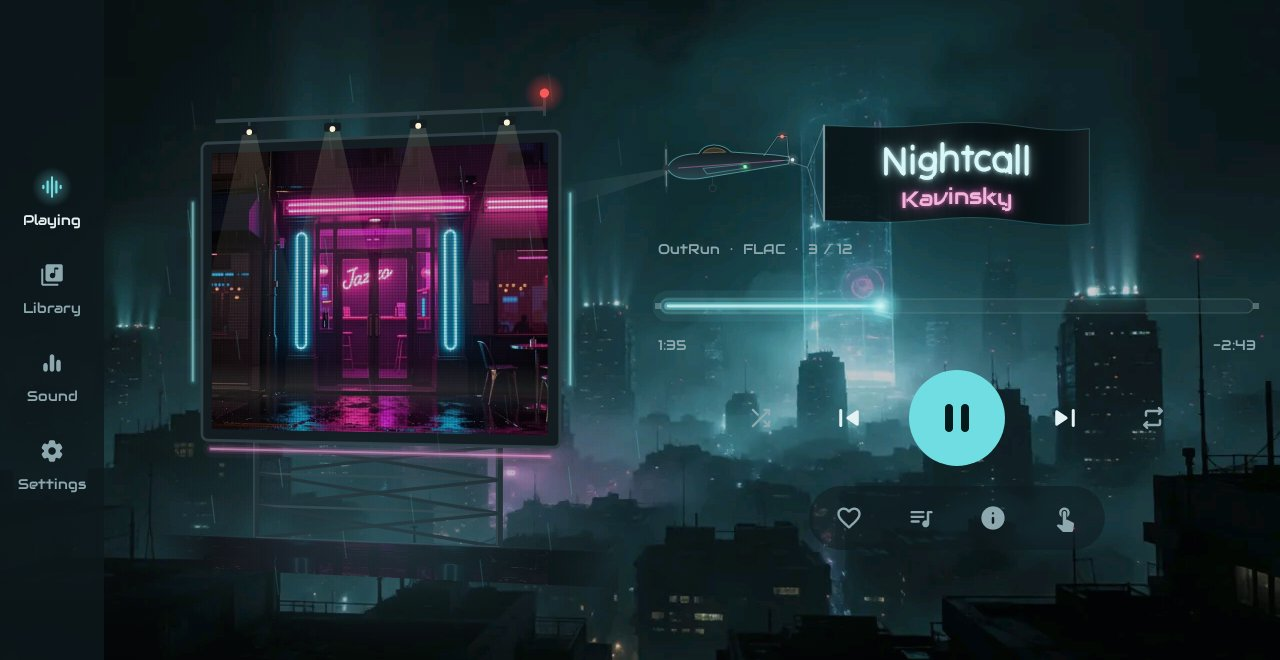
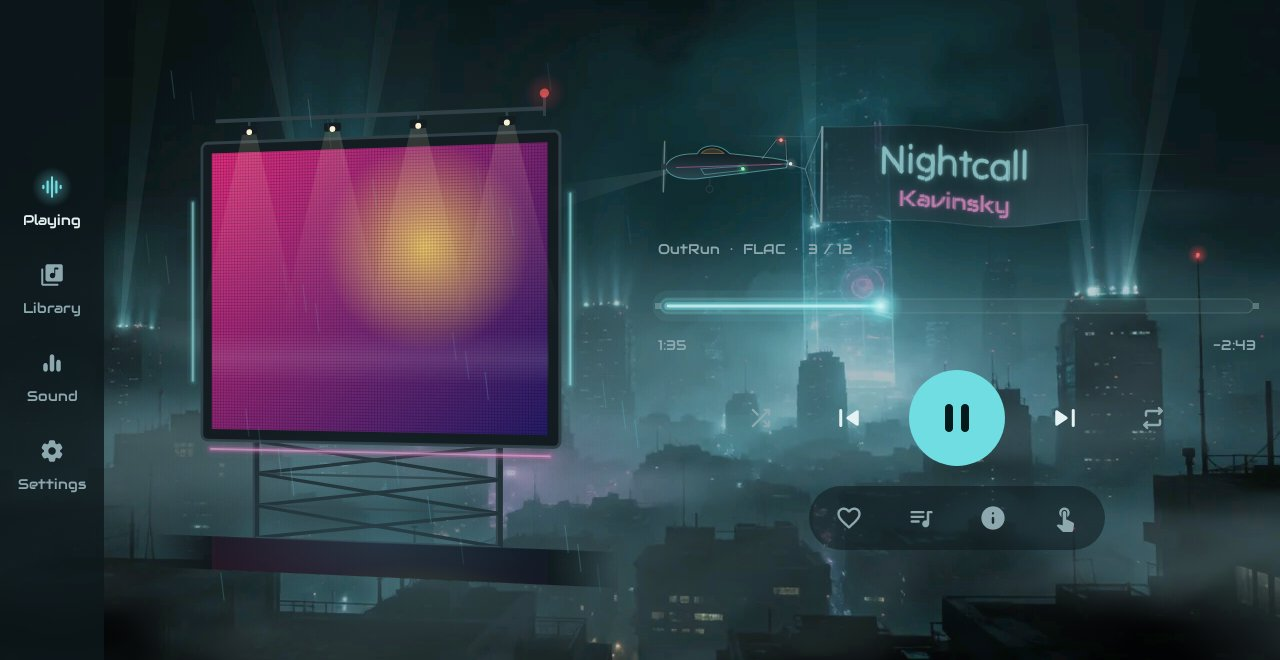
Neon City: real drifting fog, column light kept inside the tower
- Fog rebuilt: two textures of self-warped fractal noise (wisps, not
  blobs), made once off the main thread; three layers drift one way at
  different depths and sizes, each thickening and thinning slowly, so
  it never shows a loop. Screenshot test captures it 20 s apart.
- The holographic column's light is a soft lens clipped to the painted
  tower's measured shape; the flat shimmer that showed as a box is gone.

diff --git a/core/designsystem/src/main/kotlin/com/boulbeba/cruise/core/designsystem/skin/SkinBackground.kt b/core/designsystem/src/main/kotlin/com/boulbeba/cruise/core/designsystem/skin/SkinBackground.kt
@@ -22,6 +22,7 @@ import androidx.compose.ui.Modifier
 import androidx.compose.ui.draw.drawWithCache
 import androidx.compose.ui.geometry.CornerRadius
 import androidx.compose.ui.geometry.Offset
+import androidx.compose.ui.geometry.RoundRect
 import androidx.compose.ui.geometry.Size
 import androidx.compose.ui.graphics.Brush
 import androidx.compose.ui.graphics.Color
@@ -31,7 +32,7 @@ import androidx.compose.ui.graphics.Path
 import androidx.compose.ui.graphics.ShaderBrush
 import androidx.compose.ui.graphics.TileMode
 import androidx.compose.ui.graphics.asImageBitmap
-import androidx.compose.ui.graphics.drawscope.clipRect
+import androidx.compose.ui.graphics.drawscope.clipPath
 import androidx.compose.ui.graphics.drawscope.DrawScope
 import androidx.compose.ui.graphics.drawscope.Stroke
 import androidx.compose.ui.graphics.drawscope.rotate
@@ -85,6 +86,7 @@ fun SkinBackground(modifier: Modifier = Modifier, coverAccent: Color? = null, co
     val deep = if (skin.dynamicAccent && coverDeep != null) coverDeep else colors.accent2
     val style = skin.background
     val texture = rememberSkinTexture(skin.id)
+    if (style == BackgroundStyle.NeonCity) LaunchedEffect(Unit) { withContext(Dispatchers.Default) { NeonFog.prepare() } }
     Spacer(
         modifier.drawWithCache {
             // With its painted backdrop (CR-22) Neon City only adds the moving lights; the drawn city is the fallback.
@@ -317,19 +319,21 @@ private fun DrawScope.neonNight(t: Float, image: ImageBitmap) {
         drawCircle(Brush.radialGradient(listOf(beam.copy(alpha = 0.22f), Color.Transparent), center = p, radius = r), r, p)
     }
 
-    // The holographic column: a band of light gliding up it every few seconds, and a slow shimmer.
-    val colTop = at(0.627f, 0.14f)
-    val colBottom = at(0.700f, 0.575f)
-    val holo = Color(0xFFBDF4F6)
-    clipRect(colTop.x, colTop.y, colBottom.x, colBottom.y) {
-        val h = colBottom.y - colTop.y
-        drawRect(holo.copy(alpha = 0.035f + 0.03f * sin(t * 0.8f)), colTop, Size(colBottom.x - colTop.x, h))
-        val y = colBottom.y - ((t * 0.16f) % 1.2f) * h
-        val band = h * 0.07f
-        drawRect(
-            Brush.verticalGradient(listOf(Color.Transparent, holo.copy(alpha = 0.22f), Color.Transparent), startY = y - band, endY = y + band),
-            Offset(colTop.x, y - band), Size(colBottom.x - colTop.x, band * 2),
-        )
+    // The holographic column: a soft lens of light gliding up it every few seconds, kept inside the painted tower — its
+    // lit body measured on the picture, with the rounded top of its cylinder — so nothing shows beyond it.
+    val colTop = at(0.630f, 0.17f)
+    val colBottom = at(0.694f, 0.53f)
+    val colW = colBottom.x - colTop.x
+    val colH = colBottom.y - colTop.y
+    val column = Path().apply {
+        addRoundRect(RoundRect(colTop.x, colTop.y, colBottom.x, colBottom.y, CornerRadius(colW / 2, colW * 0.35f)))
+    }
+    clipPath(column) {
+        val y = colBottom.y - ((t * 0.14f) % 1.25f) * colH
+        val lens = Offset(colTop.x + colW / 2, y)
+        scale(1f, 0.55f, pivot = lens) {
+            drawCircle(Brush.radialGradient(listOf(Color(0xFFBDF4F6).copy(alpha = 0.26f), Color.Transparent), center = lens, radius = colW * 0.75f), colW * 0.75f, lens)
+        }
     }
 
     // Aviation lights on the antennas, breathing out of step.
@@ -341,60 +345,98 @@ private fun DrawScope.neonNight(t: Float, image: ImageBitmap) {
         drawCircle(Color(0xFFFF7070).copy(alpha = 0.35f + 0.6f * glow), size.minDimension * 0.0028f, p)
     }
 
-    // Fog: two layers of the same soft fog texture drifting at different heights and speeds, wrapping round.
-    val fogTex = neonFogTexture
-    for ((i, layer) in NEON_FOG_LAYERS.withIndex()) {
+    // Fog: three layers drifting one way at different depths, each breathing slowly in density (see NeonFog).
+    val fog = NeonFog.textures ?: return
+    for (layer in NeonFog.layers) {
         val w = (size.width * layer.width).roundToInt()
         val h = (size.height * layer.height).roundToInt()
         val y = (size.height * layer.top).roundToInt()
-        val x = -((t * layer.speed + i * 400f) % w).roundToInt()
+        val x = -((t * size.width * layer.speed + layer.phase * w) % w).roundToInt()
+        val breathe = 0.72f + 0.28f * sin(t * 2f * Math.PI.toFloat() / layer.breathS + layer.phase * 6f)
+        val tex = fog[layer.texture]
         for (k in 0..1) {
-            drawImage(fogTex, srcOffset = IntOffset.Zero, srcSize = IntSize(fogTex.width, fogTex.height), dstOffset = IntOffset(x + k * w, y), dstSize = IntSize(w, h), alpha = layer.alpha)
+            drawImage(tex, srcOffset = IntOffset.Zero, srcSize = IntSize(tex.width, tex.height), dstOffset = IntOffset(x + k * w, y), dstSize = IntSize(w, h), alpha = layer.alpha * breathe)
         }
     }
 }
 
-private class FogLayer(val top: Float, val height: Float, val width: Float, val speed: Float, val alpha: Float)
-
-/** Lower, wider and slower behind; higher, narrower and faster in front: the fog reads as depth. */
-private val NEON_FOG_LAYERS = listOf(
-    FogLayer(top = 0.38f, height = 0.5f, width = 1.7f, speed = 9f, alpha = 0.75f),
-    FogLayer(top = 0.58f, height = 0.45f, width = 1.25f, speed = 19f, alpha = 0.55f),
-)
-
 /**
- * Fog texture, made once: fractal value noise that repeats across its width (so it can scroll forever), thinning out
- * at the top and the bottom, in the city's fog colour. Small; drawn stretched, its smoothness hides the scale.
+ * Neon City's fog (CR-22, owner: "moving slowly like a real fog, not a clear loop"). Two fog textures are made once, in
+ * the background: fractal value noise warped through itself, so it forms wisps and curls rather than blobs, repeating
+ * seamlessly across its width, thick low down and thinning upwards. Three layers drift one way only — far haze barely
+ * moving, nearer wisps a little faster — each at its own size, so together they never show a repeat, and each slowly
+ * thickens and thins over about a minute like a fog bank.
  */
-private val neonFogTexture: ImageBitmap by lazy {
-    val w = 384
-    val h = 96
-    val rnd = Random(7)
-    val octaves = listOf(4 to 0.55f, 8 to 0.28f, 16 to 0.17f)
-    val grids = octaves.map { (cells, _) -> Array(cells / 4 + 2) { FloatArray(cells) { rnd.nextFloat() } } }
-    fun smooth(x: Float) = x * x * (3f - 2f * x)
-    val px = IntArray(w * h)
-    for (y in 0 until h) for (x in 0 until w) {
-        var v = 0f
-        octaves.forEachIndexed { i, (cells, amp) ->
-            val g = grids[i]
-            val rows = g.size - 1
-            val fx = x.toFloat() / w * cells
-            val fy = y.toFloat() / h * (rows - 1)
+internal object NeonFog {
+    class Layer(val texture: Int, val top: Float, val height: Float, val width: Float, val speed: Float, val alpha: Float, val breathS: Float, val phase: Float)
+
+    /** Speeds are fractions of the screen width per second. */
+    val layers = listOf(
+        Layer(texture = 0, top = 0.30f, height = 0.50f, width = 2.3f, speed = 0.0045f, alpha = 0.6f, breathS = 47f, phase = 0.0f),
+        Layer(texture = 1, top = 0.45f, height = 0.50f, width = 1.9f, speed = 0.0085f, alpha = 0.48f, breathS = 61f, phase = 0.37f),
+        Layer(texture = 0, top = 0.62f, height = 0.48f, width = 1.45f, speed = 0.014f, alpha = 0.38f, breathS = 73f, phase = 0.71f),
+    )
+
+    // Snapshot state: the backdrop redraws by itself once the textures are ready, even with the music paused.
+    private val ready = mutableStateOf<List<ImageBitmap>?>(null)
+    val textures: List<ImageBitmap>? get() = ready.value
+
+    /** Builds the textures off the main thread; until then the city simply has no moving fog. */
+    fun prepare() {
+        if (ready.value != null) return
+        ready.value = listOf(make(7L), make(31L))
+    }
+
+    private class Noise(seed: Long, val cells: Int, val rows: Int) {
+        private val grid = Random(seed).let { r -> Array(rows + 1) { FloatArray(cells) { r.nextFloat() } } }
+
+        /** [u] wraps round (0..1 is one period); [v] runs 0..1 over the rows. */
+        fun at(u: Float, v: Float): Float {
+            val fx = ((u % 1f + 1f) % 1f) * cells
+            val fy = v.coerceIn(0f, 0.9999f) * rows
             val x0 = fx.toInt() % cells
             val x1 = (x0 + 1) % cells
             val y0 = fy.toInt()
             val tx = smooth(fx - fx.toInt())
             val ty = smooth(fy - y0)
-            val top = g[y0][x0] + (g[y0][x1] - g[y0][x0]) * tx
-            val bottom = g[y0 + 1][x0] + (g[y0 + 1][x1] - g[y0 + 1][x0]) * tx
-            v += amp * (top + (bottom - top) * ty)
+            val a = grid[y0][x0] + (grid[y0][x1] - grid[y0][x0]) * tx
+            val b = grid[y0 + 1][x0] + (grid[y0 + 1][x1] - grid[y0 + 1][x0]) * tx
+            return a + (b - a) * ty
         }
-        val envelope = sin(Math.PI.toFloat() * y / (h - 1))
-        val a = (((v - 0.32f) / 0.68f).coerceIn(0f, 1f)).let { it * it } * envelope
-        px[y * w + x] = android.graphics.Color.argb((a * 190).roundToInt(), 0x4C, 0x7A, 0x86)
+
+        private fun smooth(x: Float) = x * x * (3f - 2f * x)
     }
-    Bitmap.createBitmap(px, w, h, Bitmap.Config.ARGB_8888).asImageBitmap()
+
+    private fun make(seed: Long): ImageBitmap {
+        val w = 512
+        val h = 128
+        fun fbm(seedOffset: Long): (Float, Float) -> Float {
+            val octaves = listOf(Noise(seed + seedOffset, 5, 2) to 0.5f, Noise(seed + seedOffset + 1, 10, 4) to 0.27f, Noise(seed + seedOffset + 2, 20, 8) to 0.15f, Noise(seed + seedOffset + 3, 40, 16) to 0.08f)
+            return { u, v -> octaves.sumOf { (n, a) -> (n.at(u, v) * a).toDouble() }.toFloat() }
+        }
+        val shape = fbm(0)
+        val warpX = fbm(100)
+        val warpY = fbm(200)
+        fun smoothstep(e0: Float, e1: Float, x: Float): Float {
+            val t = ((x - e0) / (e1 - e0)).coerceIn(0f, 1f)
+            return t * t * (3f - 2f * t)
+        }
+        val px = IntArray(w * h)
+        for (y in 0 until h) {
+            val v = y.toFloat() / (h - 1)
+            // Thick low down, thinning upwards, soft at the very bottom so layers overlap without a seam.
+            val envelope = smoothstep(0f, 0.45f, v) * (1f - smoothstep(0.82f, 1f, v))
+            for (x in 0 until w) {
+                val u = x.toFloat() / w
+                val du = (warpX(u, v) - 0.5f) * 0.09f
+                val dv = (warpY(u, v) - 0.5f) * 0.35f
+                val n = shape(u + du, v + dv)
+                val a = smoothstep(0.30f, 0.78f, n) * envelope
+                px[y * w + x] = android.graphics.Color.argb((a * 235).roundToInt(), 0x7F, 0xA7, 0xB0)
+            }
+        }
+        return Bitmap.createBitmap(px, w, h, Bitmap.Config.ARGB_8888).asImageBitmap()
+    }
 }
 
 /** Searchlights on the painted tower tops, as fractions of the backdrop picture (bg_neon, measured from it). */

diff --git a/app/src/test/kotlin/com/boulbeba/cruise/SkinsScreenshotTest.kt b/app/src/test/kotlin/com/boulbeba/cruise/SkinsScreenshotTest.kt
@@ -126,6 +126,19 @@ class SkinsScreenshotTest {
 
     @Test fun skin_midnight() = skin("midnight")
     @Test fun skin_neon() = skin("neon")
+
+    /** Neon City's fog drifting (CR-22): three moments 20 s apart, to compare by eye. */
+    @Test fun skin_neon_fog_motion() {
+        Appearance.setSkin("neon")
+        play()
+        // The fog textures are built off the main thread; give them a moment of real time.
+        Thread.sleep(2_000)
+        settle(2_500)
+        for (s in 0..2) {
+            capture("21_neon_fog_${s * 20}s")
+            settle(20_000)
+        }
+    }
     @Test fun skin_amber() = skin("amber")
     @Test fun skin_vinyl() = skin("vinyl")
     @Test fun skin_aurora() = skin("aurora")

diff --git a/CHANGE_REQUESTS.md b/CHANGE_REQUESTS.md
@@ -552,8 +552,13 @@ phone's screen went off.
 - Owner's review on the emulator: the banner was still too bright and its black cloth did not fit; more fog wanted.
   - Banner: thin see-through cloth lit from below by the city (the holographic column shows through), quieter
     lettering, a faint edge instead of an outline.
-  - Fog: a fog texture made once (fractal value noise repeating across its width) drifting in two layers at different
-    heights and speeds, instead of three soft blobs.
+  - Fog (second try — the owner could not see the first, and it must move like real fog, not loop back and forth):
+    two fog textures made once off the main thread from fractal noise warped through itself (wisps and curls, not
+    blobs), thick low down and thinning upwards; three layers drift one way only — far haze barely moving, nearer wisps
+    faster — each at its own size so the whole never shows a repeat, and each thickens and thins over about a minute.
+    `SkinsScreenshotTest.skin_neon_fog_motion` captures it 20 s apart.
+  - The holographic column's light showed as a box beyond the tower (owner's screenshot): the flat shimmer is gone, and
+    the travelling light is a soft lens clipped to the tower's measured body with its rounded cylinder top.
 
 ## CR-23 — Vinyl Lounge: slower record, lighter grooves
 
